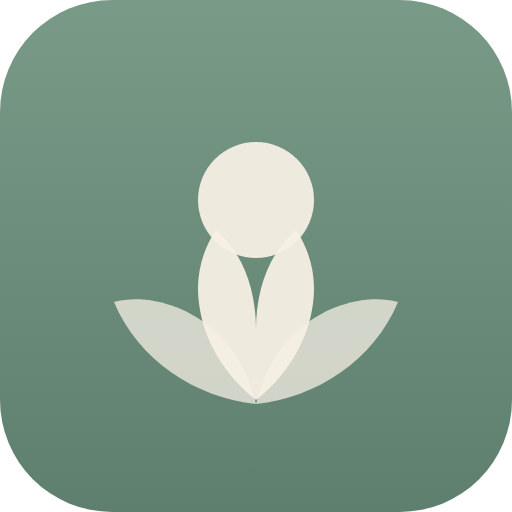
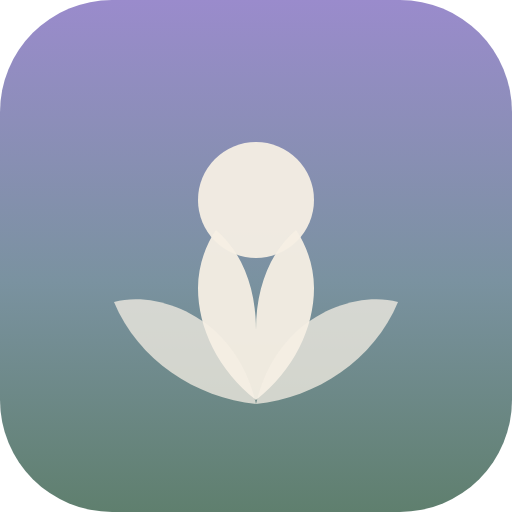
Touche de violet lavande dans le thème et l'icône ; corrige les éléments masqués qui restaient visibles
Claude-Session: https://claude.ai/code/session_01GGqRrxrVufF2nEipwBSTih

diff --git a/assets/style.css b/assets/style.css
@@ -10,6 +10,9 @@
   --green: #5f7f6e;
   --green-dark: #4a6657;
   --sand: #e9dcc7;
+  --violet: #8a78c0;
+  --violet-dark: #6b5aa3;
+  --violet-soft: #ece7f7;
   --line: #e3ddd3;
   --danger: #b4534a;
   --radius: 22px;
@@ -20,6 +23,7 @@
   :root {
     --bg: #1c2320; --bg2: #222b27; --card: #27312c; --ink: #e8ece9; --muted: #9aa69f;
     --green: #8fb19d; --green-dark: #a7c5b3; --sand: #3a3a31; --line: #36413b;
+    --violet: #b4a6e6; --violet-dark: #c7bcf0; --violet-soft: #2e2a3d;
     --shadow: 0 10px 30px rgba(0, 0, 0, .3);
     color-scheme: dark;
   }
@@ -31,7 +35,8 @@ body {
   margin: 0; min-height: 100vh;
   font: 17px/1.6 system-ui, -apple-system, "Segoe UI", Roboto, sans-serif;
   color: var(--ink);
-  background: linear-gradient(180deg, var(--bg2), var(--bg) 380px);
+  background: radial-gradient(ellipse 90% 320px at 85% 0, var(--violet-soft), transparent 70%), linear-gradient(180deg, var(--bg2), var(--bg) 380px);
+  background-attachment: fixed;
   padding-bottom: env(safe-area-inset-bottom);
 }
 a { color: var(--green-dark); }
@@ -49,16 +54,16 @@ img { max-width: 100%; }
 .wrap.narrow { max-width: 420px; }
 .wrap.wide { max-width: 1100px; }
 
-.today-label { text-align: center; color: var(--muted); letter-spacing: .04em; margin: 8px 0 18px; font-size: .95rem; }
+.today-label { text-align: center; color: var(--violet-dark); letter-spacing: .04em; margin: 8px 0 18px; font-size: .95rem; }
 
 .card { background: var(--card); border-radius: var(--radius); box-shadow: var(--shadow); overflow: hidden; }
 .card-image { display: block; width: 100%; max-height: 70vh; object-fit: cover; }
 .card-body { padding: 24px 24px 26px; }
-.card-title { font-family: Lora, Georgia, serif; font-weight: 600; font-size: 1.45rem; line-height: 1.3; margin: 0 0 12px; }
+.card-title { font-family: Lora, Georgia, serif; font-weight: 600; color: var(--violet-dark); font-size: 1.45rem; line-height: 1.3; margin: 0 0 12px; }
 .card-text { font-family: Lora, Georgia, serif; font-size: 1.15rem; }
-.card.text-only .card-body { padding: 48px 28px; text-align: center; background: radial-gradient(circle at 85% 10%, var(--bg2), transparent 55%), radial-gradient(circle at 10% 95%, var(--sand), transparent 45%); }
+.card.text-only .card-body { padding: 48px 28px; text-align: center; background: radial-gradient(circle at 85% 10%, var(--violet-soft), transparent 55%), radial-gradient(circle at 10% 95%, var(--sand), transparent 45%); }
 .card.text-only .card-text { font-style: italic; font-size: 1.4rem; line-height: 1.55; }
-.card.text-only .card-text::before { content: "“"; display: block; font-size: 3.5rem; line-height: .6; color: var(--green); opacity: .6; margin-bottom: 14px; font-style: normal; }
+.card.text-only .card-text::before { content: "“"; display: block; font-size: 3.5rem; line-height: .6; color: var(--violet); opacity: .6; margin-bottom: 14px; font-style: normal; }
 .card-audio { width: 100%; margin: 4px 0 14px; }
 
 .actions { display: flex; flex-wrap: wrap; gap: 10px; justify-content: center; margin: 20px 0; }
@@ -68,8 +73,8 @@ img { max-width: 100%; }
   background: var(--green); color: #fff; text-decoration: none; -webkit-tap-highlight-color: transparent;
 }
 .btn:hover { background: var(--green-dark); }
-.btn-ghost { background: transparent; color: var(--green-dark); box-shadow: inset 0 0 0 1.5px var(--green); }
-.btn-ghost:hover { background: var(--bg2); }
+.btn-ghost { background: transparent; color: var(--violet-dark); box-shadow: inset 0 0 0 1.5px var(--violet); }
+.btn-ghost:hover { background: var(--violet-soft); }
 .btn-danger { background: transparent; color: var(--danger); box-shadow: inset 0 0 0 1.5px var(--danger); }
 .icon-btn { border: 0; background: var(--bg2); color: var(--green-dark); width: 40px; height: 40px; border-radius: 50%; display: grid; place-items: center; cursor: pointer; }
 
@@ -80,7 +85,7 @@ img { max-width: 100%; }
 .recent a:hover { background: var(--card); }
 .recent-day { font-size: .8rem; color: var(--muted); grid-column: 1; }
 .recent-title { grid-column: 1; overflow: hidden; text-overflow: ellipsis; white-space: nowrap; }
-.recent-kind { grid-column: 2; grid-row: 1 / 3; align-self: center; font-size: .75rem; color: var(--green-dark); background: var(--bg2); padding: 2px 10px; border-radius: 99px; }
+.recent-kind { grid-column: 2; grid-row: 1 / 3; align-self: center; font-size: .75rem; color: var(--violet-dark); background: var(--violet-soft); padding: 2px 10px; border-radius: 99px; }
 
 .ios-hint { text-align: center; font-size: .85rem; color: var(--muted); margin-top: 30px; }
 .center { text-align: center; }
@@ -123,7 +128,7 @@ img { max-width: 100%; }
 .mode-opts { margin: 0 0 10px 26px; }
 .mode-opts[hidden] { display: none; }
 .presets { display: flex; flex-wrap: wrap; gap: 6px; margin-bottom: 8px; }
-.presets button { border: 0; border-radius: 99px; padding: 6px 12px; background: var(--bg2); color: var(--green-dark); font: inherit; font-size: .85rem; cursor: pointer; }
+.presets button { border: 0; border-radius: 99px; padding: 6px 12px; background: var(--violet-soft); color: var(--violet-dark); font: inherit; font-size: .85rem; cursor: pointer; }
 .delete-form { text-align: center; margin-top: 30px; }
 
 .list-head { display: flex; align-items: center; justify-content: space-between; gap: 10px; }
@@ -157,3 +162,5 @@ img { max-width: 100%; }
 .up-day { white-space: nowrap; }
 .notify { text-align: center; margin: 26px 0 0; }
 .linkish { border: 0; background: none; color: var(--green-dark); text-decoration: underline; font: inherit; cursor: pointer; padding: 0; }
+[hidden] { display: none !important; }
+.card.text-only .card-title + .card-text::before { display: none; }

diff --git a/og.php b/og.php
@@ -64,7 +64,8 @@ if (!is_file($cacheFile)) {
     $green = imagecolorallocate($img, 0x5F, 0x7F, 0x6E);
     $ink = imagecolorallocate($img, 0x2F, 0x3A, 0x34);
     $soft = imagecolorallocatealpha($img, 0x5F, 0x7F, 0x6E, 100);
-    imagefilledellipse($img, $W - 120, 110, 360, 360, $soft);
+    $lav = imagecolorallocatealpha($img, 0x8A, 0x78, 0xC0, 95);
+    imagefilledellipse($img, $W - 120, 110, 360, 360, $lav);
     imagefilledellipse($img, 90, $H - 40, 260, 260, $soft);
 
     $font = ROOT . '/assets/fonts/Lora.ttf';
